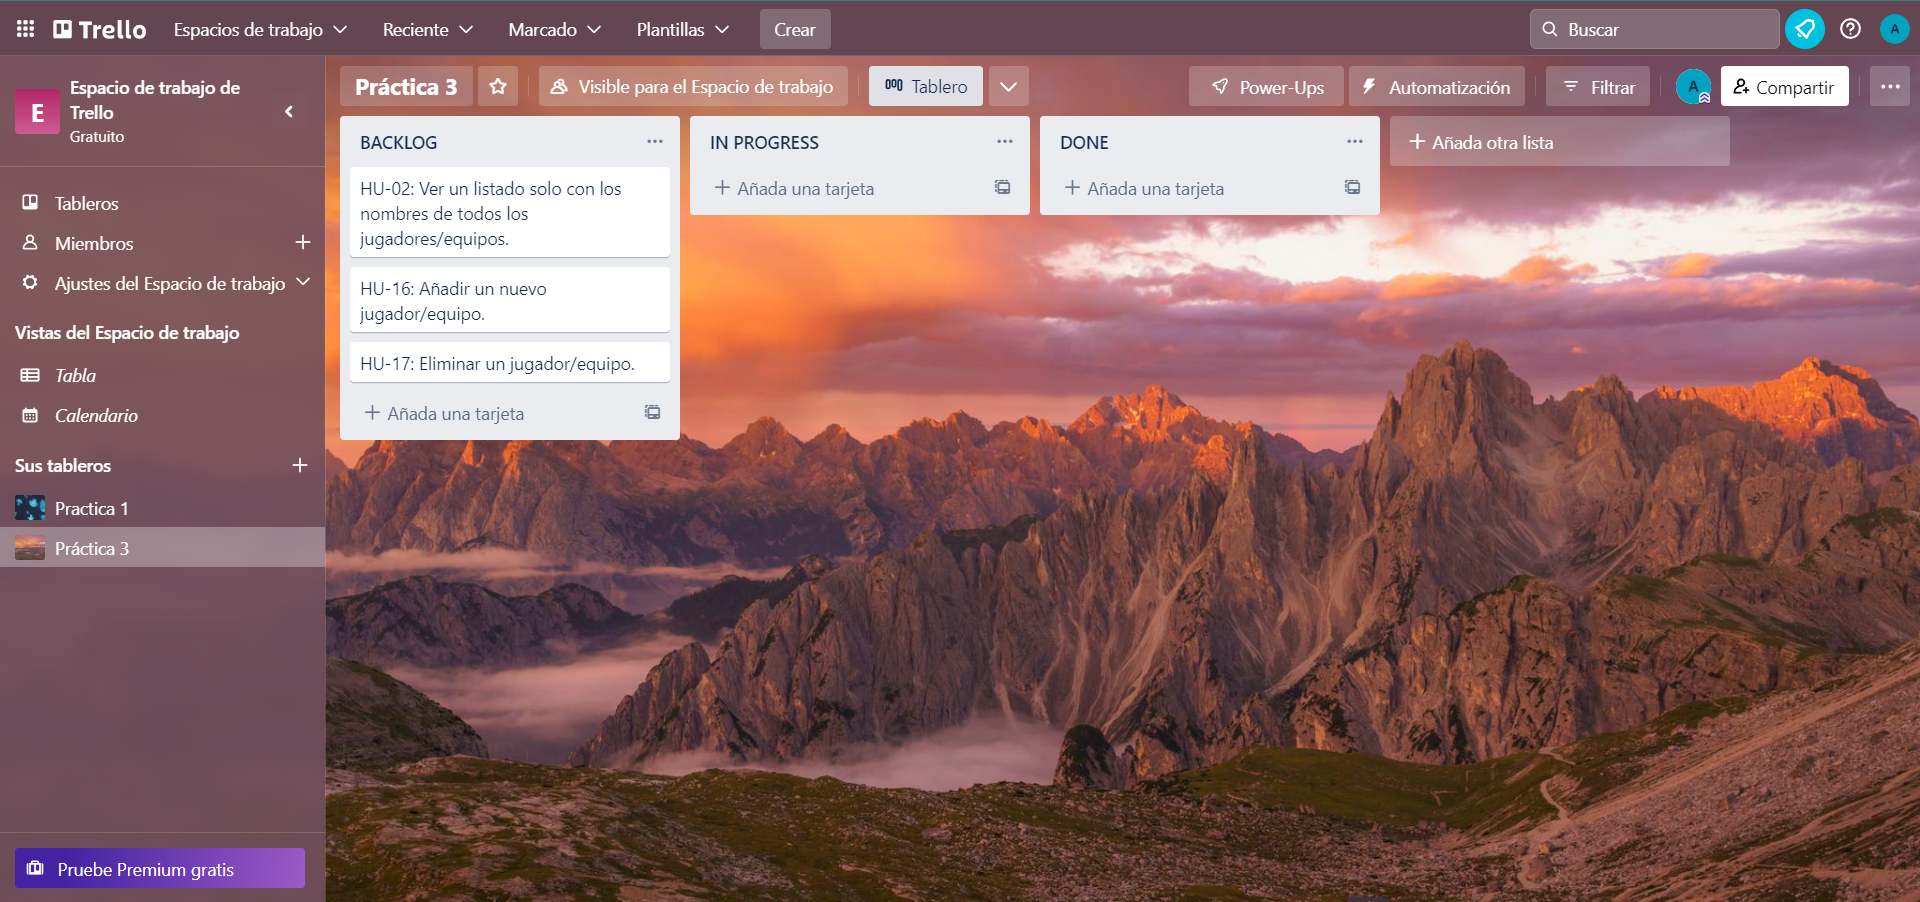
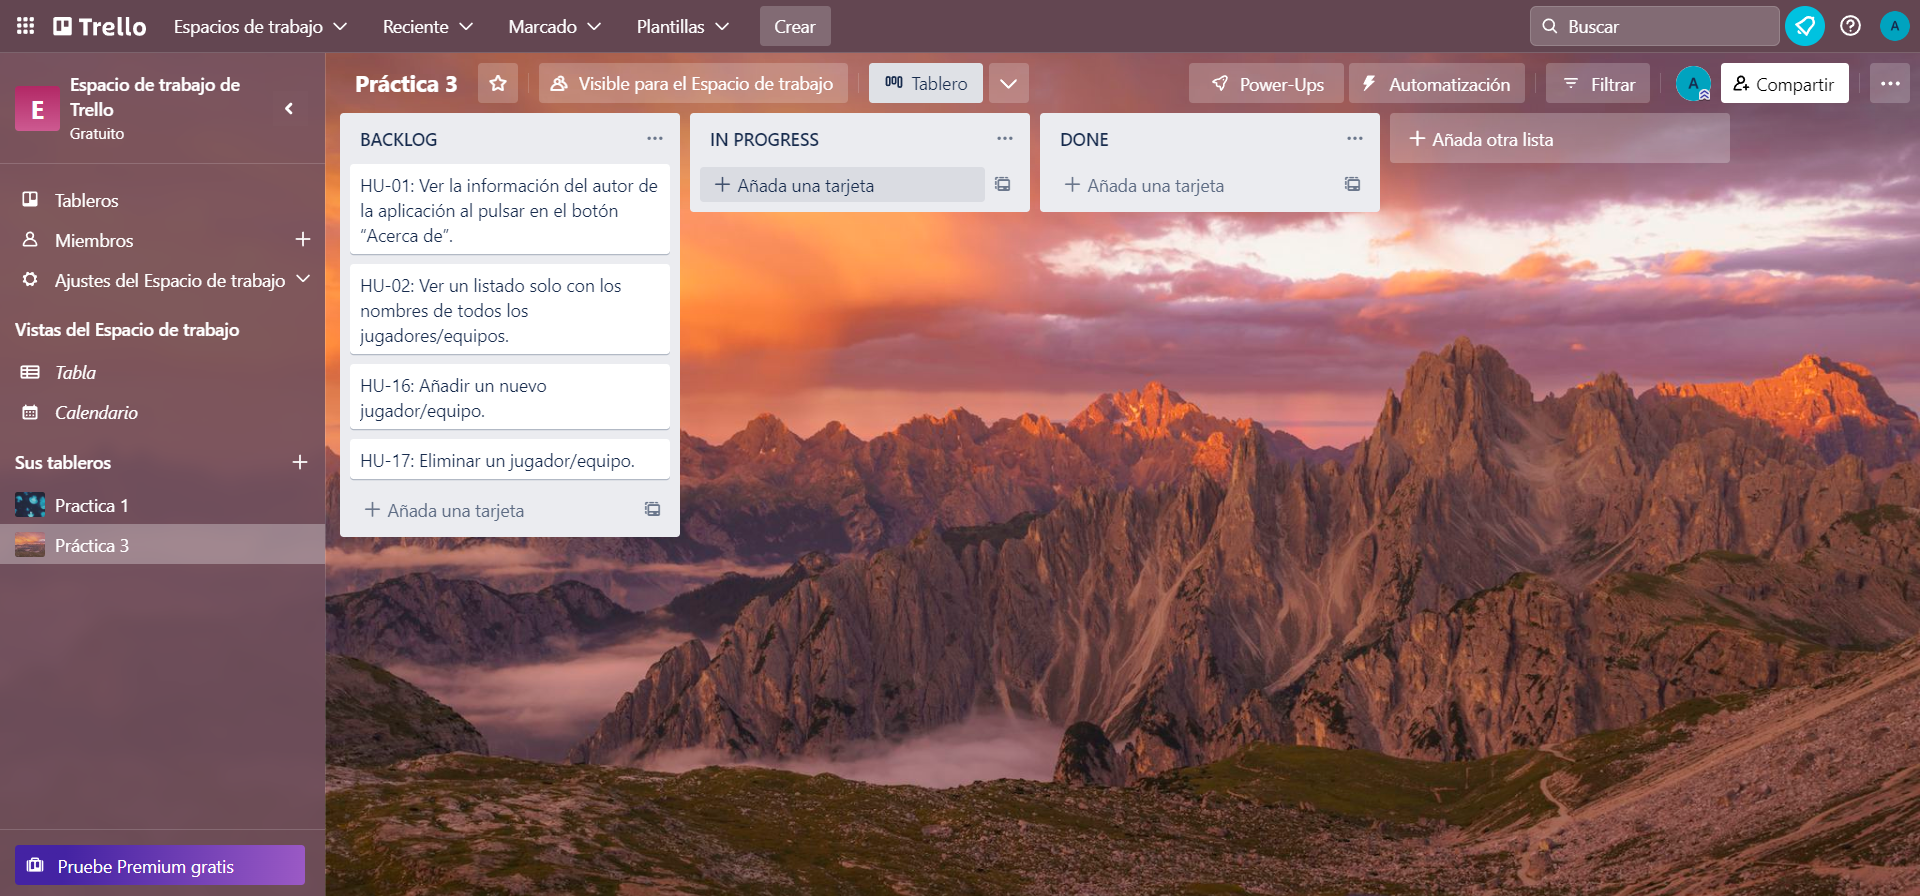
hu-01, tdd y foto terminado

diff --git a/ms-plantilla/spec/server-spec.js b/ms-plantilla/spec/server-spec.js
@@ -39,7 +39,9 @@ describe('Servidor PLANTILLA:', () => {
           //console.log( "BODY ACERCA DE ", res.body ); // Para comprobar qué contiene exactamente res.body
           assert(res.body.hasOwnProperty('mensaje'));
           assert(res.body.mensaje === "Microservicio MS Plantilla: acerca de");
-
+          assert(res.body.autor === "Andrés");
+          assert(res.body.email === "asb00028@red.ujaen.es");
+          assert(res.body.fecha === "21-03-2023");
         })
         .end((error) => { error ? done.fail(error) : done() })
     });
@@ -48,7 +50,7 @@ describe('Servidor PLANTILLA:', () => {
   /**
    * Tests para acceso a la BBDD
    */
-  describe('Acceso a BBDD:', () => {
+  /*describe('Acceso a BBDD:', () => {
     it('Devuelve ¿¿¿ VALOR ESPERADO ??? al consultar mediante test_db', (done) => {
       supertest(app)
         .get('/test_db')
@@ -64,7 +66,7 @@ describe('Servidor PLANTILLA:', () => {
         );
     });
 
-  })
+  })*/
 });
 
 

diff --git a/ms-plantilla/callbacks.js b/ms-plantilla/callbacks.js
@@ -93,9 +93,9 @@ const CB_OTHERS = {
         try {
             CORS(res).status(200).json({
                 mensaje: "Microservicio MS Plantilla: acerca de",
-                autor: "¿¿¿ AUTOR ???",
-                email: "¿¿¿ EMAIL ???",
-                fecha: "¿¿¿ FECHA ???"
+                autor: "Andrés",
+                email: "asb00028@red.ujaen.es",
+                fecha: "21-03-2023"
             });
         } catch (error) {
             CORS(res).status(500).json({ error: error.description })

diff --git a/README.md b/README.md
@@ -12,19 +12,32 @@ URL de Trello: https://trello.com/b/KOQyYPdx/pr%C3%A1ctica-3
 
 Añadir al fichero README.md las capturas de pantalla de: tu home en Fauna, de la página en la que aparece la base de datos y de la página en la que aparece la colección. Copia y pega también todos los documentos que has creado en la colección en formato JSON.
 
-<img src="misImagenes/homefauna.png" heigth="100" width="360">
+<img src='misImagenes/homefauna.png' heigth='100' width='360'>
 
-<img src="misImagenes/bbddfauna.png" heigth="100" width="360">
+<img src='misImagenes/bbddfauna.png' heigth='100' width='360'>
 
-<img src="misImagenes/coleccionfauna.png" heigth="100" width="360">
+<img src='misImagenes/coleccionfauna.png' heigth='100' width='360'>
 
 ### Historias De Usuario
 
 - Incremento 1: Estado inicial de Trello e Historias de Usuario elegidas
 
-<img src="misImagenes/Incremento1trelloinicio.png" heigth="100" width="360">
+<img src='misImagenes/Incremento1trelloinicio.png' heigth='100' width='360'>
+
+- HU-01 terminada:
+
+<img src='misImagenes/hu-01.png' heigth='100' width='360'>
+
+- HU-02 terminada:
+
+<img src='misImagenes/hu-02.png' heigth='100' width='360'>
+
+- Incremento 1: Estado final de Trello e Historias de Usuario terminadas
+
+<img src='misImagenes/Incremento1trellofinal.png' heigth='100' width='360'>
 
 [![Open in Visual Studio Code](https://classroom.github.com/assets/open-in-vscode-c66648af7eb3fe8bc4f294546bfd86ef473780cde1dea487d3c4ff354943c9ae.svg)](https://classroom.github.com/online_ide?assignment_repo_id=10405483&assignment_repo_type=AssignmentRepo)
+
 # *Plantilla Práctica Microservicios*: descripción de la aplicación
 
 Este código que se presenta aquí corresponde a la plantilla para realizar un desarrollo basado en microservicios para las prácticas de Desarrollo Ágil, para el curso 2022-2023.
